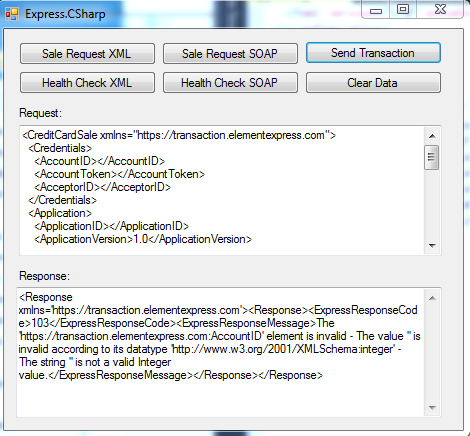
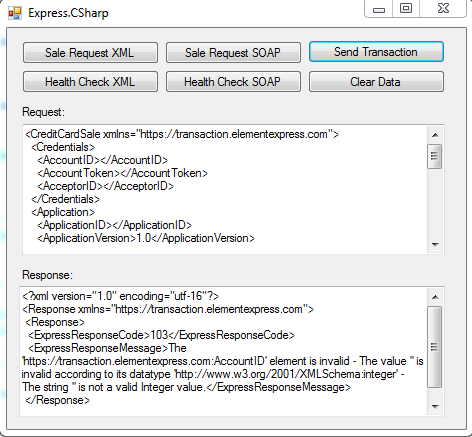
modified expdate and added better xml output

Changed region(s): [[0.0, 0.0, 1.0, 1.0], [0.8936, 0.9243, 0.9532, 0.9541], [0.9234, 0.5367, 0.9532, 0.5665]]

diff --git a/Express.CSharp/Express.CSharp/ExpressCSharp.cs b/Express.CSharp/Express.CSharp/ExpressCSharp.cs
@@ -67,8 +67,8 @@ namespace Express.CSharp
                                                             ),
                                                 new XElement(express + "Card",
                                                     new XElement(express + "CardNumber", "5499990123456781"),
-                                                    new XElement(express + "ExpirationMonth", "09"),
-                                                    new XElement(express + "ExpirationYear", "08")
+                                                    new XElement(express + "ExpirationMonth", "12"),
+                                                    new XElement(express + "ExpirationYear", "19")
                                                             )
                                                        )
                                          );
@@ -89,8 +89,23 @@ namespace Express.CSharp
                 response = httpSender.Send(txtRequest.Text, configurationData.ExpressSOAPEndpoint, soapAction);
             }
 
+            //load into XmlDocument for parsing
             var xmlDoc = new XmlDocument();
             xmlDoc.LoadXml(response);
+
+            //also allows printing in a better format
+            var settings = new XmlWriterSettings(); 
+            settings.Indent = true; 
+            settings.IndentChars = " "; 
+            settings.Encoding = Encoding.UTF8; 
+           
+            using (var stringWriter = new StringWriter())
+            using (var xmlTextWriter = XmlWriter.Create(stringWriter, settings))
+            {
+                xmlDoc.WriteTo(xmlTextWriter);
+                xmlTextWriter.Flush();
+                response = stringWriter.GetStringBuilder().ToString();
+            }
 
             txtResponse.Text = response;
         }
@@ -188,8 +203,8 @@ namespace Express.CSharp
                                                             ),
                                                 new XElement(express + "card",
                                                     new XElement(express + "CardNumber", "5499990123456781"),
-                                                    new XElement(express + "ExpirationMonth", "09"),
-                                                    new XElement(express + "ExpirationYear", "08")
+                                                    new XElement(express + "ExpirationMonth", "12"),
+                                                    new XElement(express + "ExpirationYear", "19")
                                                             ),
                                                 new XElement(express + "transaction",
                                                     new XElement(express + "TransactionAmount", "6.55"),
